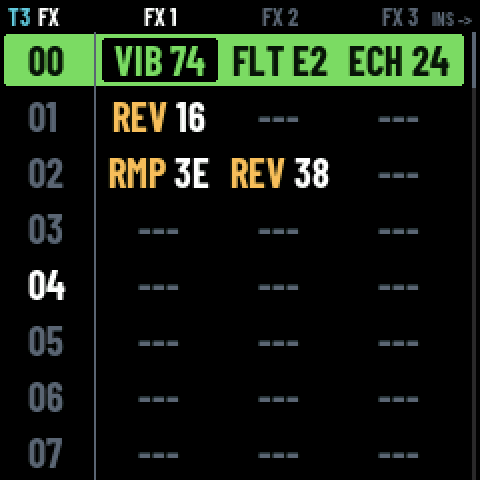
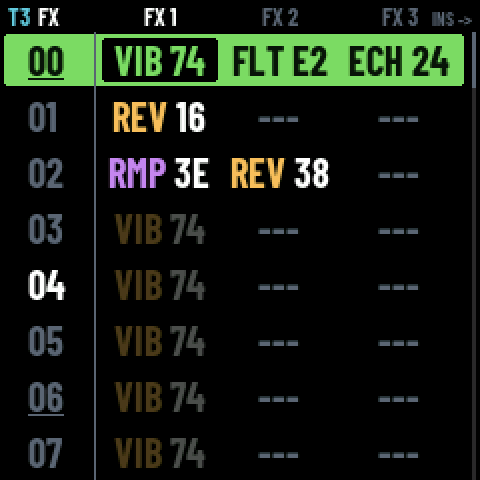
docs: the pictures and the prose catch up with the machine
PHRASE is gone from the README, from the drums demo's note about the kick
key, and from the hand-written screen= table in the skill reference -- the
device cannot answer screen=PHRASE any more, since the name left app.c's
list. The generated half of that reference was already right.

tools/readme_shots.mjs walked SONG -> PHRASE -> MIXER, and the middle hop
no longer exists. Worse, it did not fail: it wrote a picture of PATTERN
into section.png, under a caption saying PHRASE. The walk goes to the
phrase's number and opens THE PHRASE instead, then takes the MIXER from
SONG's own FX.

Two of the pictures had been stale for days, which is the part worth
remembering. section.png said SEC 03 in its corner -- the name PHRASE
carried before 31/10 -- and song.png showed columns numbered 1 to 6, where
the machine has been writing the instrument of each track for a while. The
shots are only taken when someone thinks to take them, so nothing said so.
Running them is how both were found.

The README's grid keeps its six cards: the one that showed PHRASE now shows
THE PHRASE, the menu that replaced it.

And proto/coat.html's "Left open" list of 1/11 gets its answers written
under the questions rather than over them: PHRASE deleted on 3/11, and the
metronome judged and kept as a knob, because the encoder reports detents
per frame and a toggle would flip two or three times on one flick.

diff --git a/proto/coat.html b/proto/coat.html
@@ -298,11 +298,14 @@ figure img{ image-rendering:pixelated; }
     <ul class="notes">
       <li><b>PHRASE and INSTRUMENT wear nothing</b> and keep their eight rows, switched on or not.
       INSTRUMENT has no <code>ui_shift</code>; PHRASE is a screen whose future is its own
-      question.</li>
+      question. <b>Answered on 3/11:</b> PHRASE is deleted. SEL on a phrase's number opens THE
+      PHRASE, a menu of what the row can do, and nothing led to the old screen any more.</li>
       <li><b>The pages are still flat.</b> SONG's HELP page is forty-four lines with no grouping.
       The coat answers the moment; the reference still reads like a dump.</li>
       <li><b>The metronome is a knob, not a toggle.</b> Right for ON, left for OFF, consistent with
-      every other row of PROJECT and perhaps wrong for a thing with two states.</li>
+      every other row of PROJECT and perhaps wrong for a thing with two states. <b>Judged on 3/11
+      and kept:</b> the encoder reports detents per frame, so one flick of the wrist would toggle
+      two or three times and land where chance put it. Direction as state is absolute.</li>
       <li><b>Six characters a cell</b> remains the budget, and the vocabulary has to be built inside
       it. Each word is one more thing to keep true as the screens change.</li>
     </ul>

diff --git a/tools/coatpage.py b/tools/coatpage.py
@@ -325,11 +325,14 @@ def main():
           """    <ul class="notes">
       <li><b>PHRASE and INSTRUMENT wear nothing</b> and keep their eight rows, switched on or not.
       INSTRUMENT has no <code>ui_shift</code>; PHRASE is a screen whose future is its own
-      question.</li>
+      question. <b>Answered on 3/11:</b> PHRASE is deleted. SEL on a phrase's number opens THE
+      PHRASE, a menu of what the row can do, and nothing led to the old screen any more.</li>
       <li><b>The pages are still flat.</b> SONG's HELP page is forty-four lines with no grouping.
       The coat answers the moment; the reference still reads like a dump.</li>
       <li><b>The metronome is a knob, not a toggle.</b> Right for ON, left for OFF, consistent with
-      every other row of PROJECT and perhaps wrong for a thing with two states.</li>
+      every other row of PROJECT and perhaps wrong for a thing with two states. <b>Judged on 3/11
+      and kept:</b> the encoder reports detents per frame, so one flick of the wrist would toggle
+      two or three times and land where chance put it. Direction as state is absolute.</li>
       <li><b>Six characters a cell</b> remains the budget, and the vocabulary has to be built inside
       it. Each word is one more thing to keep true as the screens change.</li>
     </ul>""", '  </section>', '</div>', '']

diff --git a/README.md b/README.md
@@ -51,7 +51,7 @@ Every picture here comes out of the firmware's own framebuffer
 <table>
   <tr>
     <td align="center"><img src="docs/readme/song.png" width="240" alt="SONG: the arrangement, one row a phrase and one column a track"><br><b>SONG</b><br>the arrangement</td>
-    <td align="center"><img src="docs/readme/section.png" width="240" alt="PHRASE: all the tracks of a phrase side by side"><br><b>PHRASE</b><br>every track at once</td>
+    <td align="center"><img src="docs/readme/phrase-menu.png" width="240" alt="THE PHRASE: the menu SEL opens on a phrase number, with the shortcut for each beside it"><br><b>THE PHRASE</b><br>what a row can do</td>
     <td align="center"><img src="docs/readme/pattern.png" width="240" alt="PATTERN: a block's steps, up to four notes a step"><br><b>PATTERN</b><br>up to four notes a step</td>
   </tr>
   <tr>
@@ -73,9 +73,9 @@ pat t1 01 len 64
 
 ## What it does
 
-- **Songs**: an arrangement of phrases (SONG), each phrase the blocks its
-  tracks play (PHRASE), each block its steps (PATTERN): up to four notes,
-  an instrument and three effects a step, 8 tracks. The device holds 31 songs.
+- **Songs**: an arrangement of phrases (SONG), each phrase holding one block
+  per track, each block its steps (PATTERN): up to four notes, an instrument
+  and three effects a step, 8 tracks. The device holds 31 songs.
 - **Sounds**: PULSE, NOISE and WAVE chip voices, SMPL (your own samples),
   VOX (a singing voice that sings the syllables you write) and DRUM
   (Felucca's drum voices), with an envelope, a filter, layers, reverb and

diff --git a/docs/drums-demo/README.md b/docs/drums-demo/README.md
@@ -333,8 +333,8 @@ comes from where.
 - **The hit is the envelope**: a kit's track stays open, each
   piece of a track is a mono lane, the lanes sound together, the
   closed hi-hat chokes the open one. An OFF or a GAT still closes the
-  track with the instrument's release. On INSTRUMENT, PATTERN and
-  PHRASE, the first C key (the 8th) is the kick.
+  track with the instrument's release. On INSTRUMENT and PATTERN, the
+  first C key (the 8th) is the kick.
 - **12 lanes shared** by all tracks, 3.4 KB of RAM; about
   20 KB of flash.
 - **Estimated cost** (not yet measured on the device): about 2 % of a

diff --git a/skill/moondaw-fm1/references/control.md b/skill/moondaw-fm1/references/control.md
@@ -25,7 +25,7 @@ One line of `key=value`, meant to be read as it is:
 
 | | |
 |---|---|
-| `screen=` | `HOME` `SONG` `PHRASE` `PATTERN` `INSTRUMENT` `MIXER` `PROJECT` `CANVAS` `SETTINGS` `HELP` `SYSTEM` |
+| `screen=` | `HOME` `SONG` `PATTERN` `INSTRUMENT` `MIXER` `PROJECT` `CANVAS` `SETTINGS` `HELP` `SYSTEM` |
 | `song=` `slot=` `dirty=` | what is open, where it lives, whether it has unsaved edits |
 | `playing=` `phrase=` `step=` | what is playing and exactly where the playhead is |
 | `bpm=` `phrases=` `tracks=` | the song's shape |
